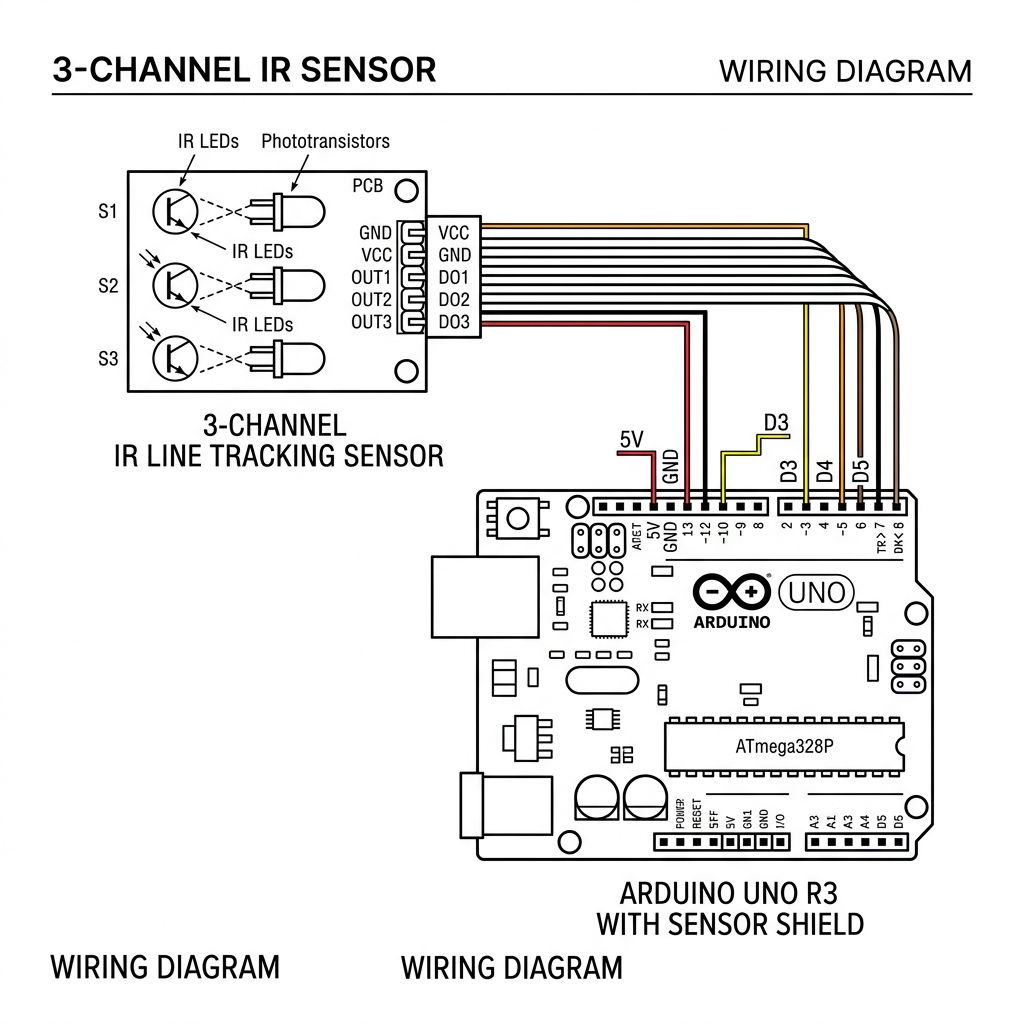
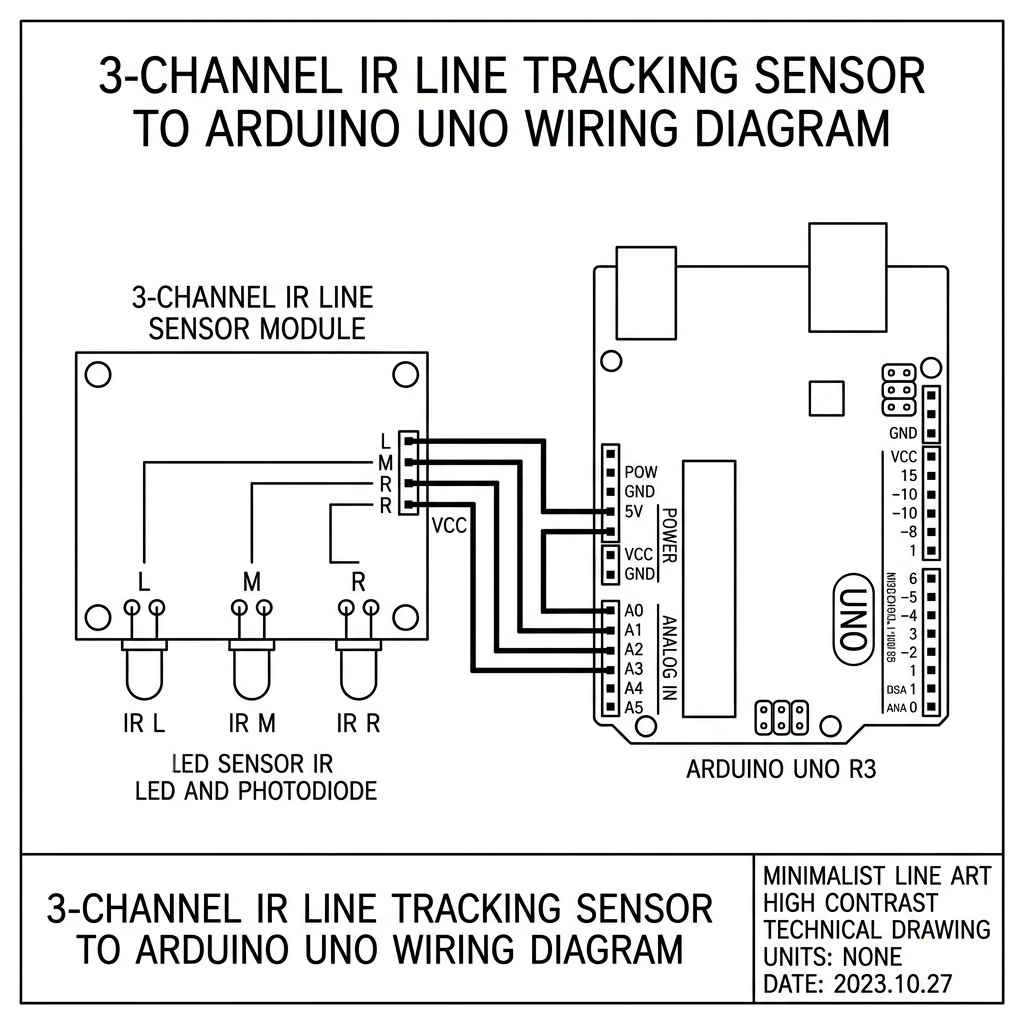
refactor(ui): Rebuild Chat header for mobile responsiveness, upgrade blueprints to V2, and add interactive pinout accordion

Changed region(s): [[0.0, 0.0, 1.0, 1.0], [0.3125, 0.5312, 0.3438, 0.5625]]

diff --git a/src/app/tester/page.tsx b/src/app/tester/page.tsx
@@ -13,17 +13,26 @@ import {
   Usb,
   Zap,
   CheckCircle2,
-  XCircle,
-  AlertCircle
+  AlertCircle,
+  ChevronRight,
+  Menu,
+  X
 } from 'lucide-react';
 import Link from 'next/link';
+
+interface Pin {
+  id: string;
+  pin: string;
+  desc: string;
+  detail: string;
+}
 
 interface DiagnosticComponent {
   id: string;
   name: string;
   icon: React.ReactNode;
   blueprint: string;
-  pinout: Record<string, string>;
+  pins: Pin[];
   instructions: string;
   testCommand: string;
 }
@@ -34,12 +43,12 @@ const COMPONENTS: DiagnosticComponent[] = [
     name: 'Ultrasonic HC-SR04',
     icon: <Eye size={18} />,
     blueprint: '/bot/blueprints/ultrasonic.png',
-    pinout: {
-      'VCC': '5V Power',
-      'GND': 'Ground',
-      'TRIG': 'Pin 13 (Output)',
-      'ECHO': 'Pin 12 (Input)'
-    },
+    pins: [
+      { id: 'vcc', pin: 'VCC', desc: '5V Power', detail: 'Supplies 5V power to the sensor. Do not use 3.3V as it will not function correctly.' },
+      { id: 'gnd', pin: 'GND', desc: 'Ground', detail: 'Completes the power circuit. Connect to any GND pin on the Arduino.' },
+      { id: 'trig', pin: 'TRIG', desc: 'Pin 13 (Output)', detail: 'Sends a 10-microsecond high pulse to trigger the ultrasonic burst.' },
+      { id: 'echo', pin: 'ECHO', desc: 'Pin 12 (Input)', detail: 'Goes high while waiting for the echo to return. Time high = distance.' }
+    ],
     instructions: 'Mount the sensor on the SG90 servo bracket. Ensure the 4-pin jumper wire is firmly seated. Test will ping the sensor and expect a distance value back.',
     testCommand: 'TEST_US'
   },
@@ -48,12 +57,12 @@ const COMPONENTS: DiagnosticComponent[] = [
     name: 'TB6612 Motor Driver',
     icon: <Zap size={18} />,
     blueprint: '/bot/blueprints/motor.png',
-    pinout: {
-      'PWMA / PWMB': 'Pin 5 / Pin 6',
-      'AIN1 / BIN1': 'Pin 7 / Pin 8',
-      'STBY': 'Pin 3 (Standby)',
-      'Motor A/B': 'Terminal Blocks M1/M2'
-    },
+    pins: [
+      { id: 'pwma', pin: 'PWMA/B', desc: 'Pins 5/6', detail: 'Pulse Width Modulation (PWM) pins to control the speed of Motor A and B.' },
+      { id: 'ain', pin: 'AIN/BIN', desc: 'Pins 7/8', detail: 'Logic pins to control the direction of the motors (Forward/Reverse).' },
+      { id: 'stby', pin: 'STBY', desc: 'Pin 3', detail: 'Standby pin. Must be pulled HIGH to enable the motor driver.' },
+      { id: 'out', pin: 'Motor A/B', desc: 'M1/M2', detail: 'Screw terminals connecting directly to the DC motors.' }
+    ],
     instructions: 'Check that the battery pack is connected and the main power switch is ON. USB power alone cannot drive the motors. Test will spin motors forward for 1 second.',
     testCommand: 'TEST_MOTORS'
   },
@@ -62,12 +71,12 @@ const COMPONENTS: DiagnosticComponent[] = [
     name: 'IR Line Tracking',
     icon: <Rss size={18} />,
     blueprint: '/bot/blueprints/ir.png',
-    pinout: {
-      'L (Left)': 'Pin A2',
-      'M (Middle)': 'Pin A1',
-      'R (Right)': 'Pin A0',
-      'VCC / GND': '5V / Ground'
-    },
+    pins: [
+      { id: 'l', pin: 'L (Left)', desc: 'Pin A2', detail: 'Reads the analog value from the left IR sensor.' },
+      { id: 'm', pin: 'M (Mid)', desc: 'Pin A1', detail: 'Reads the analog value from the center IR sensor.' },
+      { id: 'r', pin: 'R (Right)', desc: 'Pin A0', detail: 'Reads the analog value from the right IR sensor.' },
+      { id: 'pwr', pin: 'VCC/GND', desc: '5V/Ground', detail: 'Power delivery to the IR emitters and receivers.' }
+    ],
     instructions: 'Sensor array must be mounted 1-2cm above the ground. The onboard potentiometers can be turned to adjust sensitivity to black lines.',
     testCommand: 'TEST_IR'
   }
@@ -75,16 +84,23 @@ const COMPONENTS: DiagnosticComponent[] = [
 
 export default function TesterPage() {
   const [activeComponent, setActiveComponent] = useState<DiagnosticComponent>(COMPONENTS[0]);
+  const [activePinIndex, setActivePinIndex] = useState<number | null>(null);
   const [port, setPort] = useState<any>(null);
   const [connectionStatus, setConnectionStatus] = useState<'disconnected' | 'connecting' | 'connected' | 'error'>('disconnected');
   const [testLog, setTestLog] = useState<string[]>([]);
   const [isSerialSupported, setIsSerialSupported] = useState(true);
+  const [mobileMenuOpen, setMobileMenuOpen] = useState(false);
 
   useEffect(() => {
     if (typeof navigator === 'undefined' || !('serial' in navigator)) {
       setIsSerialSupported(false);
     }
   }, []);
+
+  // Reset pin selection when component changes
+  useEffect(() => {
+    setActivePinIndex(null);
+  }, [activeComponent.id]);
 
   const connectToArduino = async () => {
     if (!isSerialSupported) {
@@ -133,13 +149,12 @@ export default function TesterPage() {
     addLog(`Running diagnostic: ${activeComponent.testCommand}...`);
     try {
       const writer = port.writable.getWriter();
-      const data = new TextEncoder().encode(activeComponent.testCommand + "\n");
+      const data = new TextEncoder().encode(activeComponent.testCommand + "\\n");
       await writer.write(data);
       writer.releaseLock();
       
       addLog("Command sent. Awaiting response...");
       
-      // We would normally set up a reader here, but for safety/mocking we'll simulate a response
       setTimeout(() => {
         addLog(`Test [${activeComponent.name}] completed successfully.`);
       }, 1500);
@@ -157,11 +172,11 @@ export default function TesterPage() {
           <div className="flex items-center gap-4">
             <Link href="/" className="group flex items-center gap-2 text-sm font-medium text-[#86868B] hover:text-[#F5F5F7] transition-colors">
               <ArrowLeft size={16} className="group-hover:-translate-x-1 transition-transform" />
-              <span>Home</span>
+              <span className="hidden sm:inline">Home</span>
             </Link>
-            <div className="h-4 w-px bg-white/10 mx-2" />
-            <Link href="/docs" className="text-sm font-medium text-[#86868B] hover:text-white transition-colors">Docs</Link>
-            <Link href="/chat" className="text-sm font-medium text-[#86868B] hover:text-white transition-colors">Chat</Link>
+            <div className="h-4 w-px bg-white/10 mx-2 hidden sm:block" />
+            <Link href="/docs" className="text-sm font-medium text-[#86868B] hover:text-white transition-colors hidden sm:block">Docs</Link>
+            <Link href="/chat" className="text-sm font-medium text-[#86868B] hover:text-white transition-colors hidden sm:block">Chat</Link>
             <Link href="/tester" className="text-sm font-medium text-white transition-colors flex items-center gap-2">
               <Activity size={14} className="text-red-500" />
               Diagnostics
@@ -171,7 +186,7 @@ export default function TesterPage() {
           <div className="flex items-center gap-4">
             {connectionStatus === 'connected' ? (
               <div className="flex items-center gap-3">
-                <span className="flex items-center gap-2 text-xs font-medium text-green-400 bg-green-400/10 px-3 py-1.5 rounded-full border border-green-400/20">
+                <span className="flex items-center gap-2 text-xs font-medium text-green-400 bg-green-400/10 px-3 py-1.5 rounded-full border border-green-400/20 hidden sm:flex">
                   <CheckCircle2 size={14} /> Connected
                 </span>
                 <button onClick={disconnectArduino} className="text-xs text-red-400 hover:text-red-300 transition-colors">Disconnect</button>
@@ -180,25 +195,49 @@ export default function TesterPage() {
               <button 
                 onClick={connectToArduino}
                 disabled={connectionStatus === 'connecting'}
-                className="flex items-center gap-2 px-4 py-1.5 bg-[#F5F5F7] hover:bg-white text-black text-xs font-semibold rounded-full transition-all shadow-sm disabled:opacity-50"
+                className="flex items-center gap-2 px-3 sm:px-4 py-1.5 bg-[#F5F5F7] hover:bg-white text-black text-xs font-semibold rounded-full transition-all shadow-sm disabled:opacity-50"
               >
                 <Usb size={14} />
-                <span>{connectionStatus === 'connecting' ? 'Connecting...' : 'Connect Arduino'}</span>
+                <span className="hidden sm:inline">{connectionStatus === 'connecting' ? 'Connecting...' : 'Connect Arduino'}</span>
+                <span className="sm:hidden">{connectionStatus === 'connecting' ? '...' : 'Connect'}</span>
               </button>
             )}
+            <button 
+              className="sm:hidden p-2 text-zinc-400"
+              onClick={() => setMobileMenuOpen(!mobileMenuOpen)}
+            >
+              {mobileMenuOpen ? <X size={20} /> : <Menu size={20} />}
+            </button>
           </div>
         </div>
       </header>
 
-      <main className="flex-1 container mx-auto px-4 py-8 max-w-7xl flex gap-8 h-[calc(100vh-56px)]">
+      {/* Mobile Menu */}
+      <AnimatePresence>
+        {mobileMenuOpen && (
+          <motion.div
+            initial={{ height: 0, opacity: 0 }}
+            animate={{ height: 'auto', opacity: 1 }}
+            exit={{ height: 0, opacity: 0 }}
+            className="sm:hidden bg-[#1D1D1F] border-b border-white/10 overflow-hidden"
+          >
+            <div className="flex flex-col p-4 gap-4">
+              <Link href="/docs" className="text-sm font-medium text-zinc-300" onClick={() => setMobileMenuOpen(false)}>Documentation</Link>
+              <Link href="/chat" className="text-sm font-medium text-zinc-300" onClick={() => setMobileMenuOpen(false)}>AI Chat</Link>
+            </div>
+          </motion.div>
+        )}
+      </AnimatePresence>
+
+      <main className="flex-1 container mx-auto px-4 py-4 sm:py-8 max-w-7xl flex flex-col lg:flex-row gap-4 sm:gap-8 lg:h-[calc(100vh-88px)] min-h-0">
         {/* Sidebar */}
-        <aside className="w-64 shrink-0 flex flex-col gap-2">
-          <h2 className="text-[10px] font-semibold text-[#86868B] uppercase tracking-widest px-4 mb-4">Hardware Components</h2>
+        <aside className="w-full lg:w-64 shrink-0 flex lg:flex-col gap-2 overflow-x-auto lg:overflow-visible pb-2 lg:pb-0 scrollbar-hide">
+          <h2 className="text-[10px] font-semibold text-[#86868B] uppercase tracking-widest px-4 mb-2 lg:mb-4 hidden lg:block">Hardware Components</h2>
           {COMPONENTS.map(comp => (
             <button
               key={comp.id}
               onClick={() => setActiveComponent(comp)}
-              className={`flex items-center gap-3 px-4 py-3 rounded-2xl transition-all text-sm font-medium border ${
+              className={`flex items-center gap-3 px-4 py-3 rounded-2xl transition-all text-sm font-medium border whitespace-nowrap lg:whitespace-normal shrink-0 ${
                 activeComponent.id === comp.id 
                   ? 'bg-[#2C2C2E] border-white/10 text-white shadow-sm' 
                   : 'bg-transparent border-transparent text-[#86868B] hover:bg-white/5 hover:text-white'
@@ -213,31 +252,31 @@ export default function TesterPage() {
         </aside>
 
         {/* Main Testing Area */}
-        <div className="flex-1 flex flex-col bg-[#1D1D1F] rounded-[32px] border border-white/5 overflow-hidden shadow-2xl relative">
-          <div className="p-8 border-b border-white/5 flex items-center justify-between bg-[#2C2C2E]/30">
+        <div className="flex-1 flex flex-col bg-[#1D1D1F] rounded-[24px] sm:rounded-[32px] border border-white/5 overflow-hidden shadow-2xl relative min-h-[600px] lg:min-h-0">
+          <div className="p-4 sm:p-8 border-b border-white/5 flex flex-col sm:flex-row items-start sm:items-center justify-between gap-4 bg-[#2C2C2E]/30 shrink-0">
             <div>
-              <h1 className="text-3xl font-semibold tracking-tight text-white flex items-center gap-3">
+              <h1 className="text-xl sm:text-3xl font-semibold tracking-tight text-white flex items-center gap-3">
                 {activeComponent.name}
               </h1>
-              <p className="text-[#86868B] mt-2 font-light text-sm max-w-xl">
+              <p className="text-[#86868B] mt-2 font-light text-xs sm:text-sm max-w-xl">
                 {activeComponent.instructions}
               </p>
             </div>
             <button
               onClick={runTest}
-              className="px-6 py-3 bg-red-600 hover:bg-red-500 text-white rounded-xl font-medium transition-all shadow-[0_0_20px_rgba(220,38,38,0.2)] flex items-center gap-2"
+              className="w-full sm:w-auto px-6 py-3 bg-red-600 hover:bg-red-500 text-white rounded-xl font-medium transition-all shadow-[0_0_20px_rgba(220,38,38,0.2)] flex items-center justify-center gap-2 shrink-0"
             >
               <Radio size={18} />
               Run Diagnostic
             </button>
           </div>
 
-          <div className="flex-1 flex overflow-hidden">
+          <div className="flex-1 flex flex-col lg:flex-row overflow-hidden">
             {/* Blueprint View */}
-            <div className="flex-1 p-8 overflow-y-auto relative bg-[#f4f4f0]">
-              <div className="absolute top-8 left-8 z-10 flex flex-col gap-1">
-                <span className="text-[10px] font-black uppercase tracking-[0.2em] text-black">Wii System Manual</span>
-                <span className="text-xs font-bold uppercase tracking-tight text-black border-b-2 border-black pb-1">{activeComponent.name} Assembly</span>
+            <div className="flex-1 p-4 sm:p-8 overflow-y-auto relative bg-[#f4f4f0] min-h-[300px]">
+              <div className="absolute top-4 left-4 sm:top-8 sm:left-8 z-10 flex flex-col gap-1">
+                <span className="text-[8px] sm:text-[10px] font-black uppercase tracking-[0.2em] text-black">Hardware Schematic</span>
+                <span className="text-xs font-bold uppercase tracking-tight text-black border-b-2 border-black pb-1">{activeComponent.name}</span>
               </div>
               
               <AnimatePresence mode="wait">
@@ -258,23 +297,45 @@ export default function TesterPage() {
               </AnimatePresence>
             </div>
 
-            {/* Pinout & Terminal Sidebar */}
-            <div className="w-80 shrink-0 border-l border-white/5 bg-[#111111] flex flex-col">
-              <div className="p-6 border-b border-white/5">
+            {/* Interactive Pinout & Terminal */}
+            <div className="w-full lg:w-80 shrink-0 border-t lg:border-t-0 lg:border-l border-white/5 bg-[#111111] flex flex-col h-auto lg:h-full">
+              <div className="p-4 sm:p-6 border-b border-white/5 flex-shrink-0">
                 <h3 className="text-xs font-bold text-red-500 uppercase tracking-widest mb-4 flex items-center gap-2">
-                  <Cpu size={14} /> Pinout Connection
+                  <Cpu size={14} /> Interactive Pinout
                 </h3>
-                <div className="space-y-3">
-                  {Object.entries(activeComponent.pinout).map(([pin, desc], i) => (
-                    <div key={i} className="flex justify-between items-center text-sm">
-                      <span className="text-[#86868B] font-mono">{pin}</span>
-                      <span className="text-red-400 font-medium">{desc}</span>
+                <div className="space-y-2">
+                  {activeComponent.pins.map((pinObj, i) => (
+                    <div key={i} className="flex flex-col">
+                      <button 
+                        onClick={() => setActivePinIndex(activePinIndex === i ? null : i)}
+                        className={`flex justify-between items-center text-sm p-2 rounded-lg transition-colors ${activePinIndex === i ? 'bg-red-500/10 border border-red-500/20' : 'hover:bg-white/5 border border-transparent'}`}
+                      >
+                        <span className="text-[#86868B] font-mono font-medium">{pinObj.pin}</span>
+                        <div className="flex items-center gap-2">
+                          <span className={`font-medium ${activePinIndex === i ? 'text-red-400' : 'text-zinc-400'}`}>{pinObj.desc}</span>
+                          <ChevronRight size={14} className={`text-zinc-600 transition-transform ${activePinIndex === i ? 'rotate-90 text-red-400' : ''}`} />
+                        </div>
+                      </button>
+                      <AnimatePresence>
+                        {activePinIndex === i && (
+                          <motion.div
+                            initial={{ height: 0, opacity: 0 }}
+                            animate={{ height: 'auto', opacity: 1 }}
+                            exit={{ height: 0, opacity: 0 }}
+                            className="overflow-hidden"
+                          >
+                            <p className="p-3 text-xs text-zinc-400 leading-relaxed bg-[#1A1A1A] rounded-lg mt-1 border border-white/5">
+                              {pinObj.detail}
+                            </p>
+                          </motion.div>
+                        )}
+                      </AnimatePresence>
                     </div>
                   ))}
                 </div>
               </div>
 
-              <div className="flex-1 p-6 flex flex-col">
+              <div className="flex-1 p-4 sm:p-6 flex flex-col min-h-[200px]">
                 <h3 className="text-xs font-bold text-[#86868B] uppercase tracking-widest mb-4 flex items-center gap-2">
                   <Terminal size={14} /> Diagnostic Terminal
                 </h3>

diff --git a/src/app/chat/page.tsx b/src/app/chat/page.tsx
@@ -165,20 +165,42 @@ export default function ChatPage() {
   );
 
   return (
-    <div className="flex h-screen bg-[#0A0A0A] text-zinc-100 overflow-hidden font-sans">
-      {/* Mobile Menu Button */}
-      <button
-        onClick={() => setIsSidebarOpen(!isSidebarOpen)}
-        className="fixed top-4 left-4 z-50 md:hidden p-2 glass rounded-lg"
-      >
-        {isSidebarOpen ? <X size={20} /> : <Menu size={20} />}
-      </button>
+    <div className="flex flex-col h-screen bg-[#0A0A0A] text-zinc-100 overflow-hidden font-sans">
+      {/* Header */}
+      <header className="h-14 border-b border-white/5 bg-[#1D1D1F]/80 backdrop-blur-2xl flex items-center justify-between px-4 shrink-0 z-50">
+        <div className="flex items-center gap-4">
+          <button
+            onClick={() => setIsSidebarOpen(!isSidebarOpen)}
+            className="p-1.5 text-zinc-400 hover:text-white rounded-md hover:bg-white/10 transition-colors md:hidden"
+          >
+            {isSidebarOpen ? <X size={20} /> : <Menu size={20} />}
+          </button>
+          
+          <Link href="/" className="group flex items-center gap-2 text-sm font-medium text-[#86868B] hover:text-[#F5F5F7] transition-colors">
+            <ArrowLeft size={16} className="group-hover:-translate-x-1 transition-transform" />
+            <span className="hidden sm:inline">Home</span>
+          </Link>
+          <div className="h-4 w-px bg-white/10 mx-2 hidden sm:block" />
+          <Link href="/docs" className="text-sm font-medium text-[#86868B] hover:text-white transition-colors hidden sm:block">Docs</Link>
+          <Link href="/chat" className="text-sm font-medium text-white transition-colors hidden sm:block">Chat</Link>
+          <Link href="/tester" className="text-sm font-medium text-[#86868B] hover:text-white transition-colors hidden sm:flex items-center gap-2">
+            <Activity size={14} className="text-red-500" />
+            Diagnostics
+          </Link>
+        </div>
+        <div className="flex items-center gap-2">
+          <span className="text-[10px] uppercase tracking-widest font-bold text-zinc-500">
+            {currentSession?.title || 'New Thread'}
+          </span>
+        </div>
+      </header>
 
+      <div className="flex flex-1 overflow-hidden relative">
       {/* Sidebar */}
       <motion.aside
         initial={false}
         animate={{ width: isSidebarOpen ? 300 : 0, opacity: isSidebarOpen ? 1 : 0 }}
-        className="border-r border-white/5 bg-[#0D0D0D] flex flex-col relative z-40 overflow-hidden"
+        className="border-r border-white/5 bg-[#0D0D0D] flex flex-col absolute md:relative z-50 h-full overflow-hidden shrink-0"
       >
         <div className="p-4 flex flex-col h-full w-[300px]">
           <div className="mb-8 px-1">
@@ -259,7 +281,8 @@ export default function ChatPage() {
       </motion.aside>
 
       {/* Main Chat Area */}
-      <main className="flex-1 flex flex-col relative min-w-0">
+      <main className="flex-1 flex flex-col relative min-w-0 h-full">
+
         <div
           ref={scrollRef}
           className="flex-1 overflow-y-auto p-4 md:p-8 space-y-8 scroll-smooth"
@@ -422,6 +445,7 @@ export default function ChatPage() {
           </p>
         </div>
       </main>
+      </div>
     </div>
   );
 }
